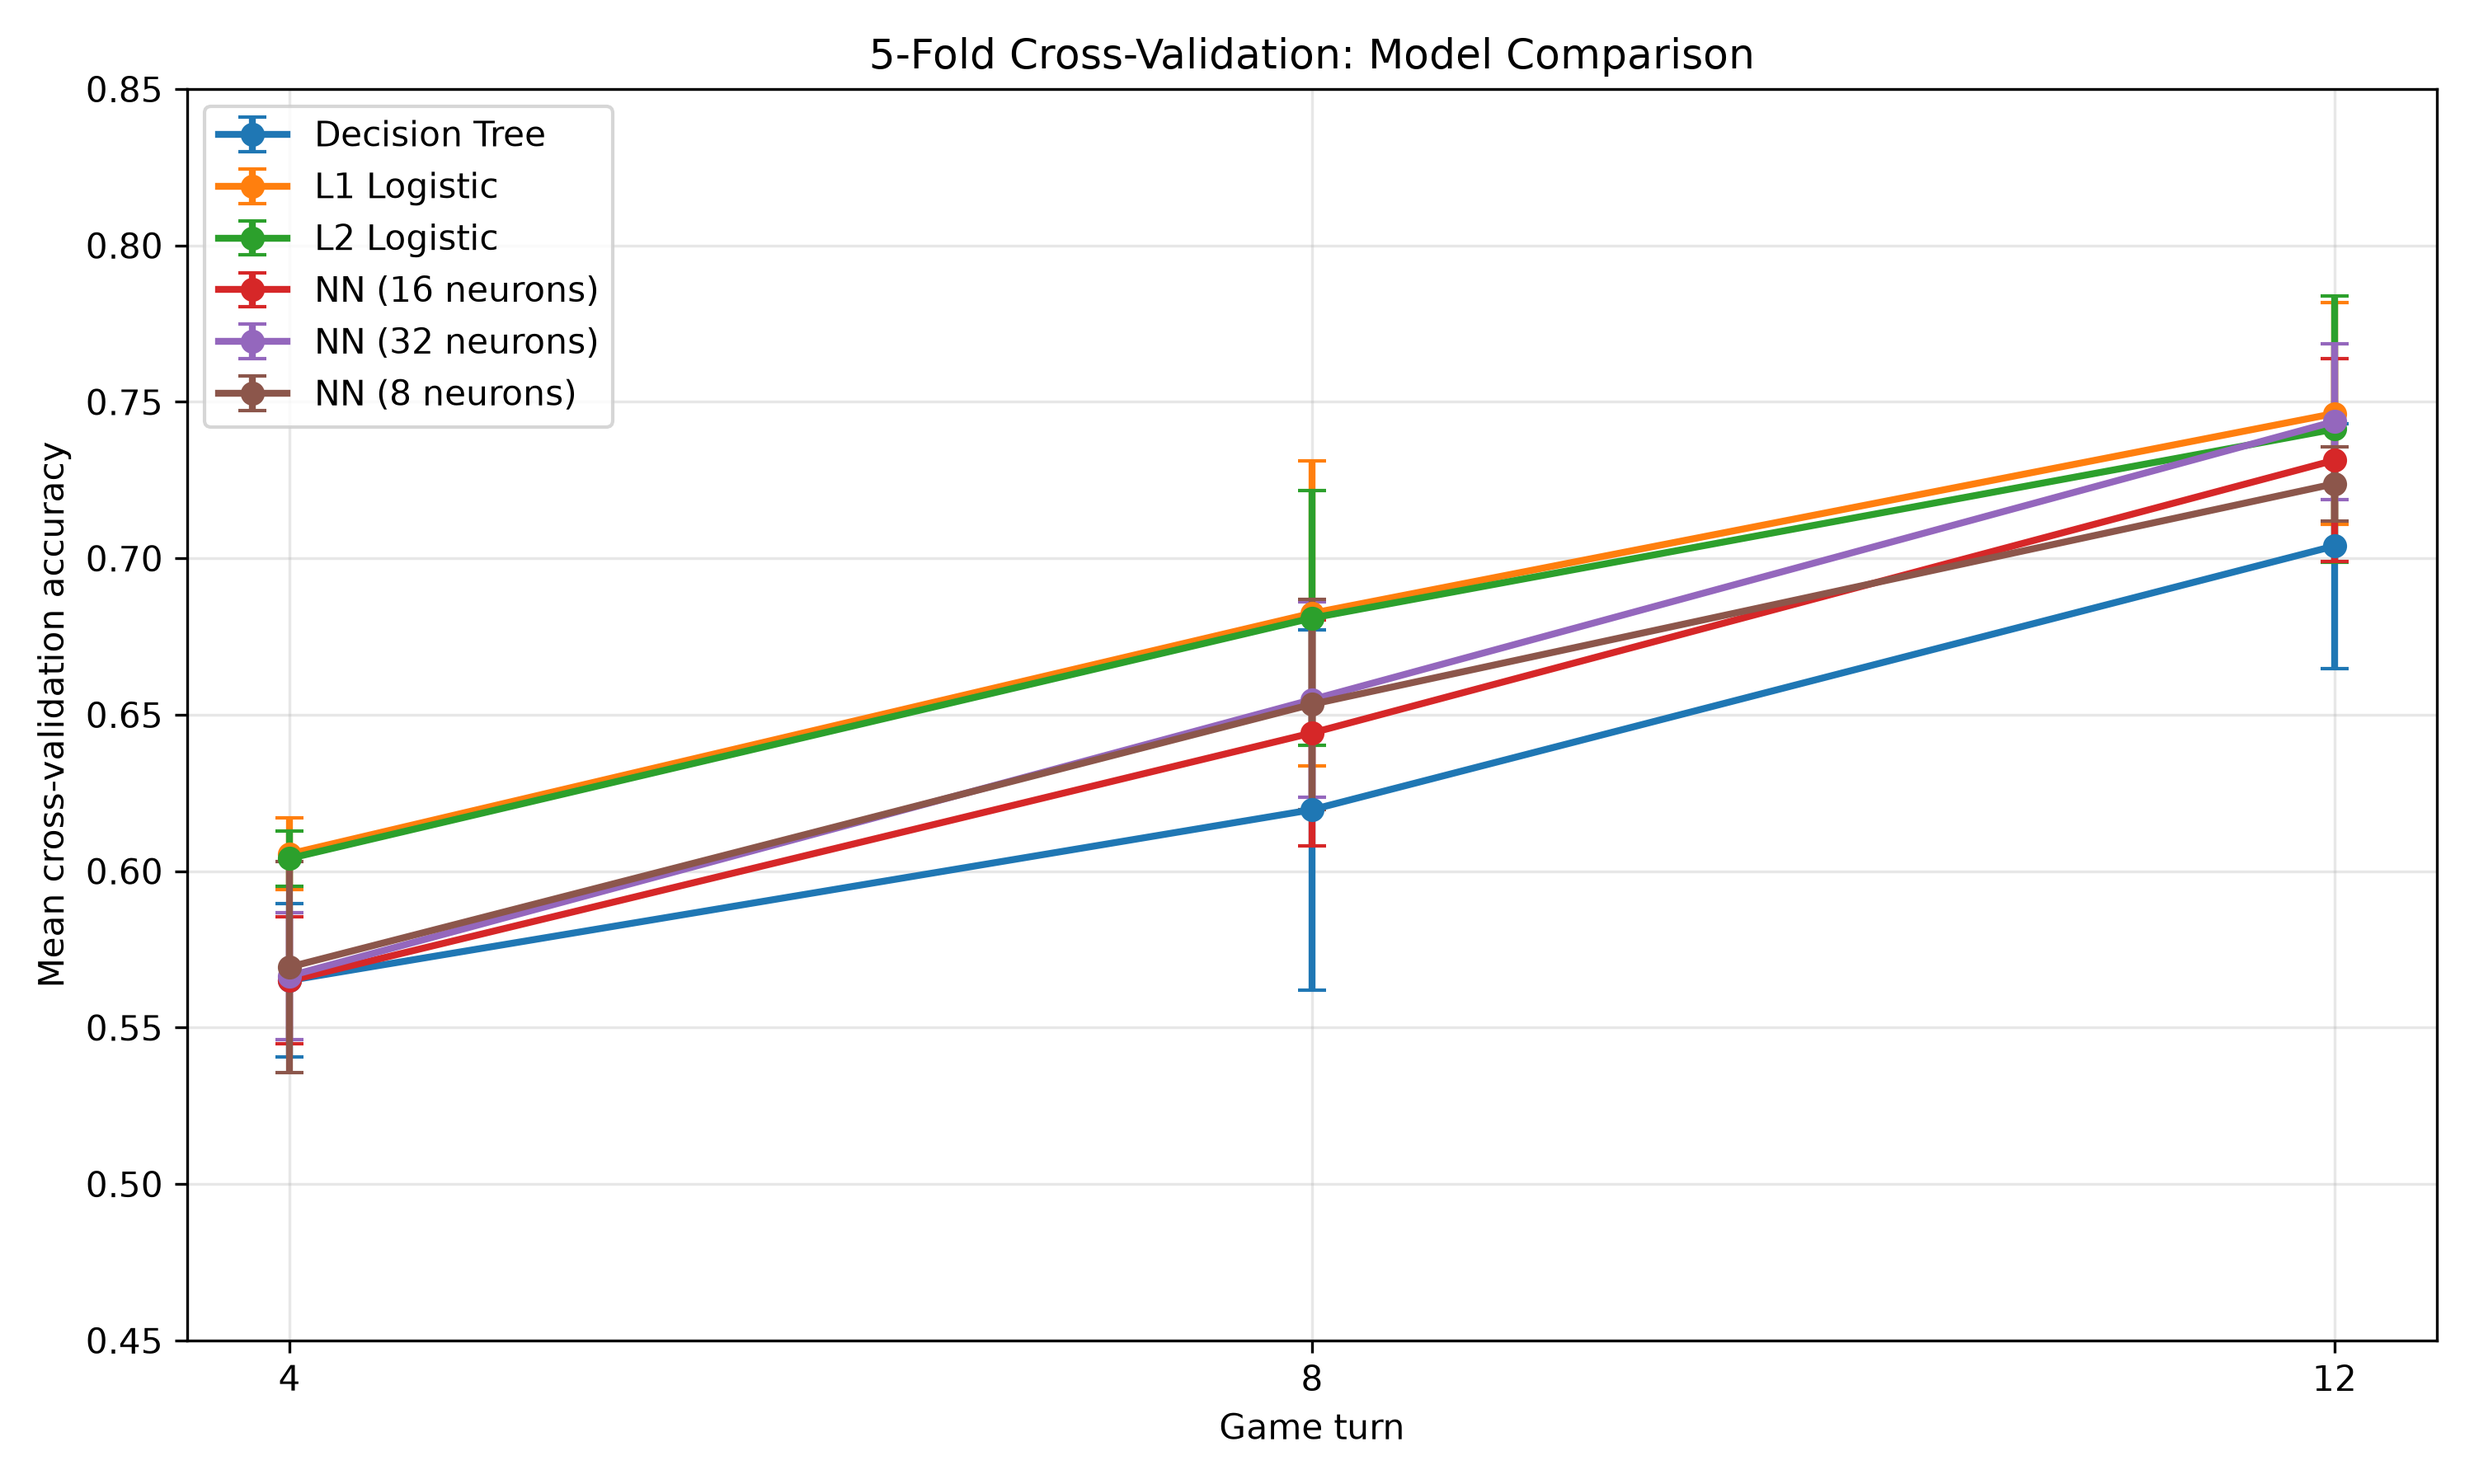
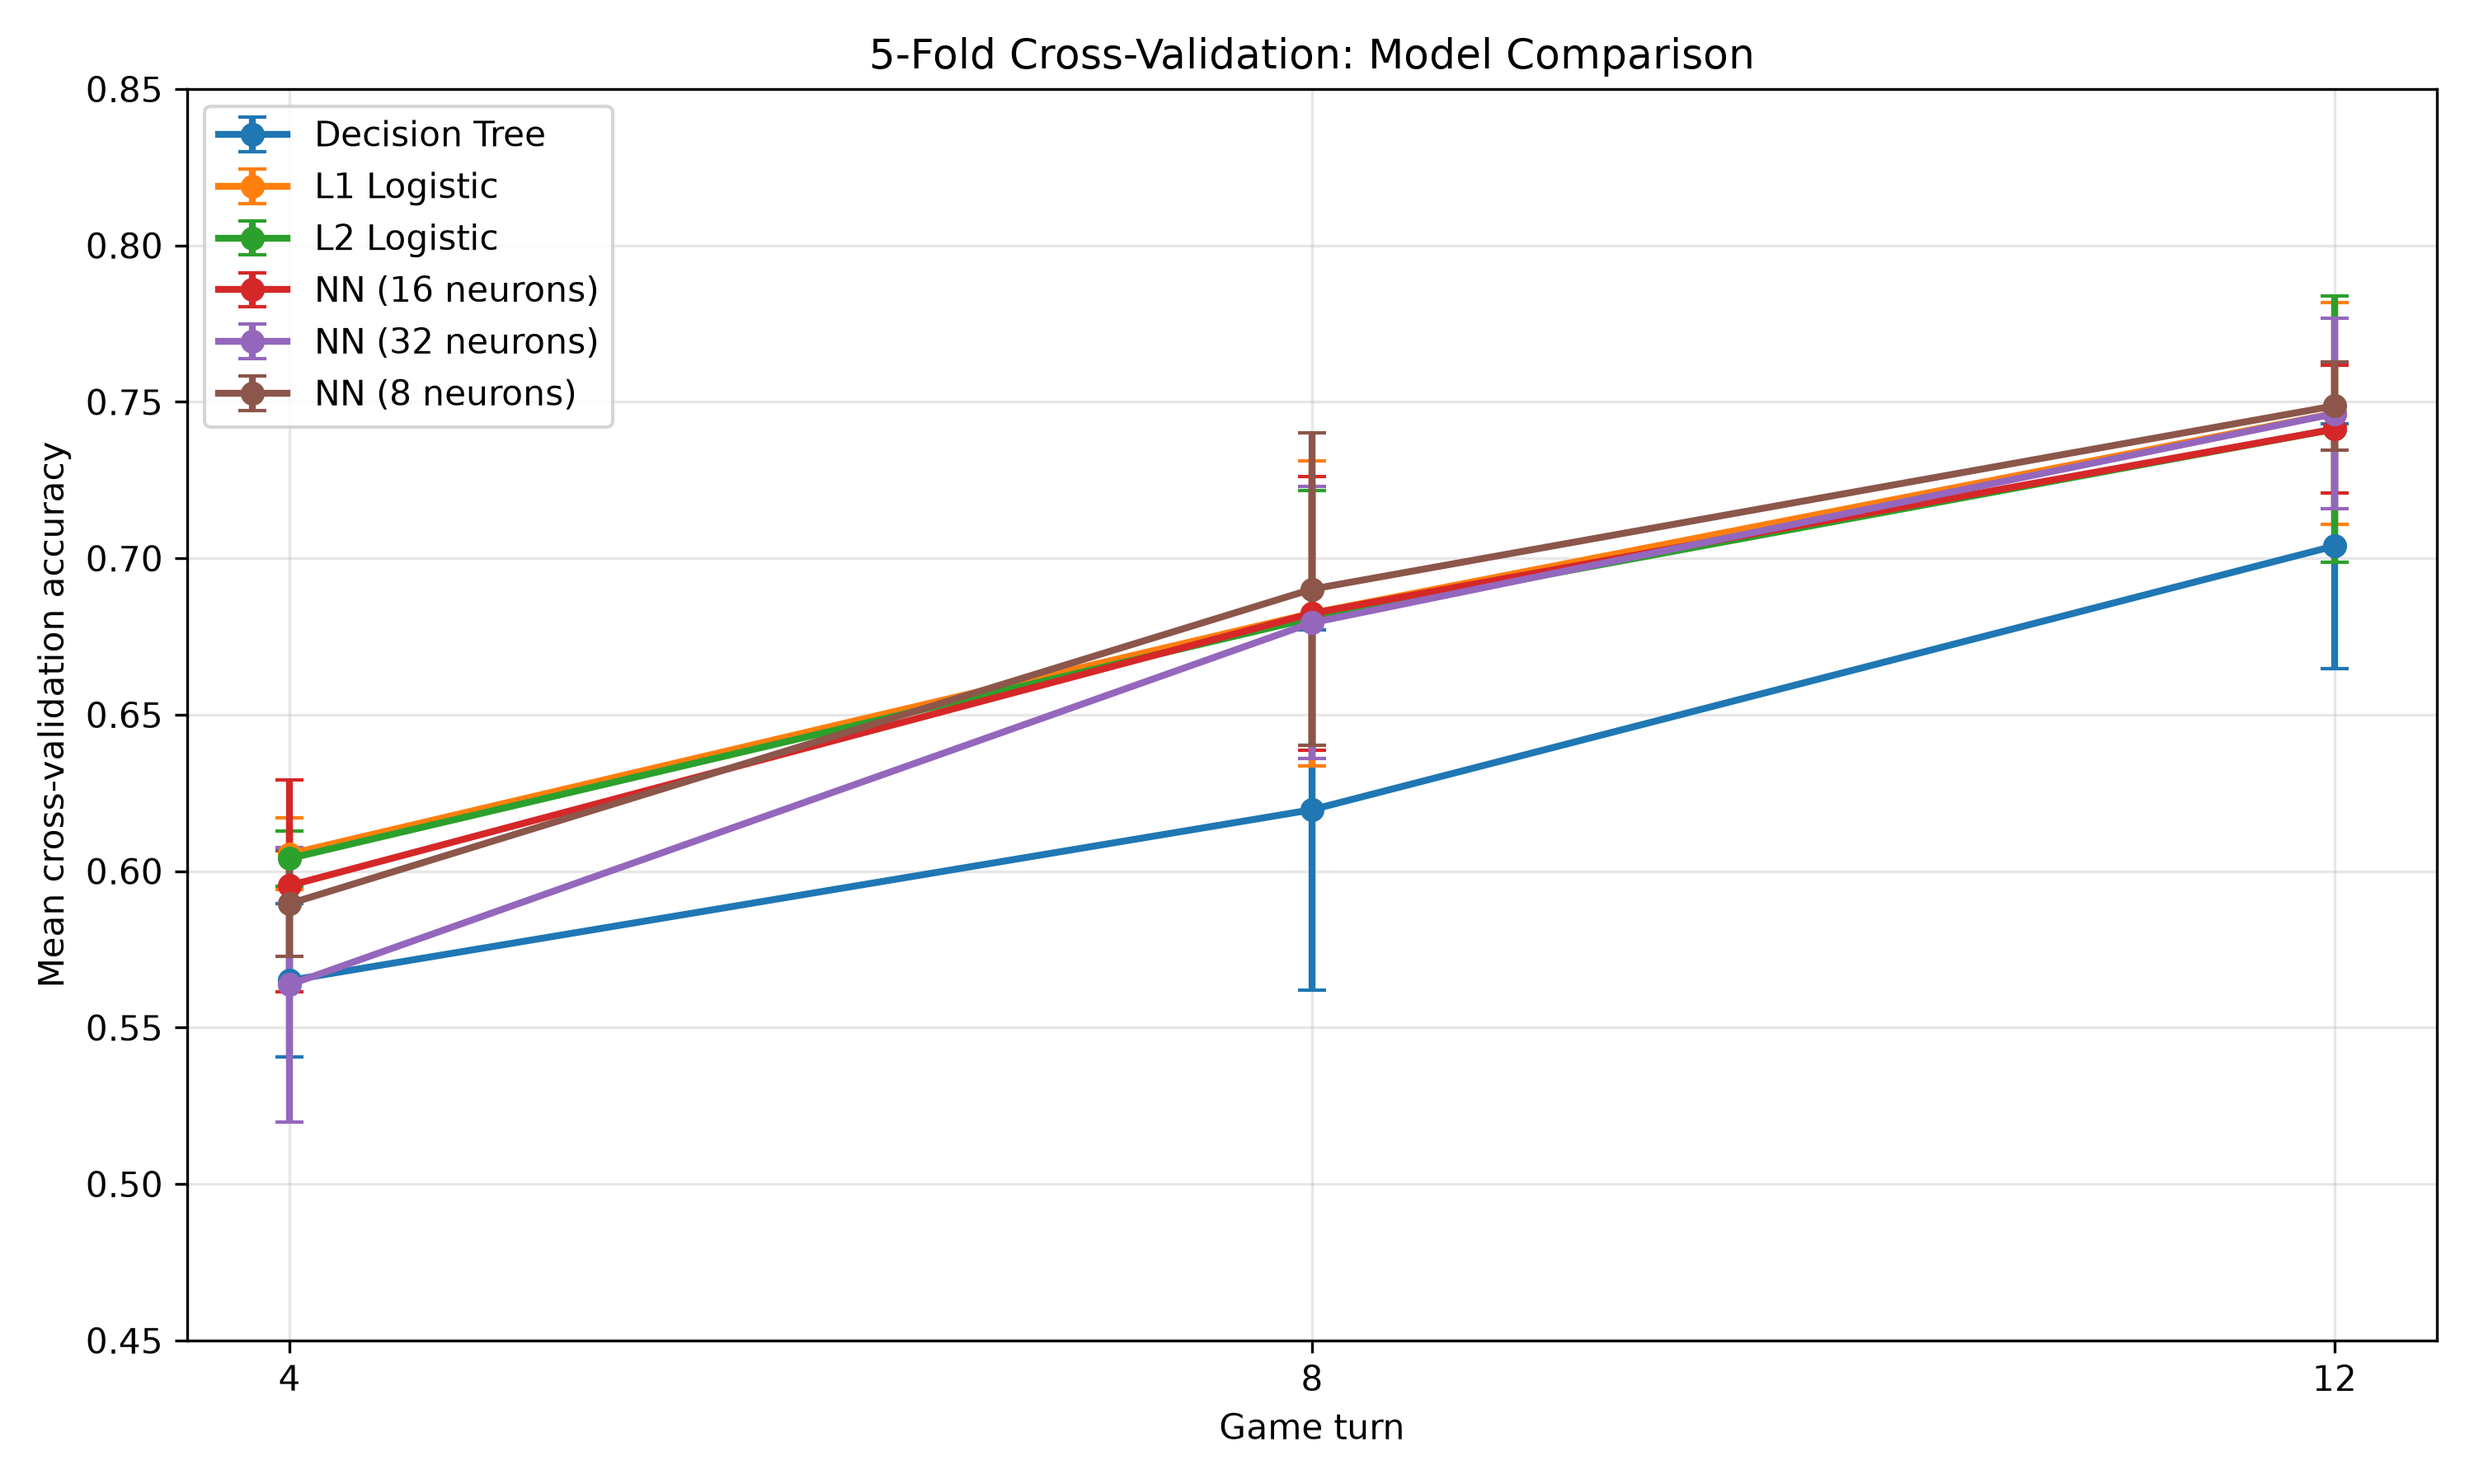
Migrate neural network from TensorFlow to PyTorch

Changed region(s): [[0.093, 0.2178, 0.961, 0.7467], [0.093, 0.5289, 0.124, 0.56]]

diff --git a/src/models.py b/src/models.py
@@ -6,10 +6,12 @@ What is in here:
   1. Prize-card baseline
   2. Logistic regression (L2 and L1 regularization)
   3. Decision tree classifier
-  4. Per-turn validation accuracy comparisons
-  5. Feature coefficient and importance analysis
-  6. Decision tree depth and L1 regularization experiments
-  7. Feature ablation experiments
+  4. PyTorch neural network with early stopping
+  5. Per-turn validation accuracy comparisons
+  6. Five-fold cross-validation
+  7. Feature coefficient and importance analysis
+  8. Decision tree depth and L1 regularization experiments
+  9. Feature ablation experiments
 
 Run from the repository root:
   python3 src/models.py
@@ -21,12 +23,15 @@ from pathlib import Path
 
 import numpy as np
 import pandas as pd
-import tensorflow as tf
+import torch
 from sklearn.linear_model import LogisticRegression
 from sklearn.model_selection import StratifiedKFold, train_test_split
 from sklearn.pipeline import make_pipeline
 from sklearn.preprocessing import StandardScaler
 from sklearn.tree import DecisionTreeClassifier
+from torch import nn
+from torch.utils.data import DataLoader, TensorDataset
+ 
 
 def prize_baseline(p1_prizes, p2_prizes):
      """
@@ -71,60 +76,128 @@ def train_tree(X_train, y_train, max_depth=3):
      
      return model
 
-
 def train_neural_network(X_train, y_train, hidden_units=16):
+     """
+     Train a PyTorch neural network with scaling and early stopping
+     """
+     torch.manual_seed(42)
+     
+     X_train = np.asarray(X_train)
+     y_train = np.asarray(y_train)
+     
+     # Separate data for training and early stopping
+     X_fit, X_stop, y_fit, y_stop = train_test_split(
+               X_train,
+               y_train,
+               test_size=0.2,
+               stratify=y_train,
+               random_state=42
+          )
+    
+     # Fit scaler only on the actual training examples
+     scaler = StandardScaler()
+     X_fit_scaled = scaler.fit_transform(X_fit)
+     X_stop_scaled = scaler.transform(X_stop)
+     
+     # Convert data to PyTorch tensors
+     fit_x = torch.tensor(X_fit_scaled, dtype=torch.float32)
+     fit_y = torch.tensor(y_fit, dtype=torch.float32).reshape(-1, 1)
+
+     stop_x = torch.tensor(X_stop_scaled, dtype=torch.float32)
+     stop_y = torch.tensor(y_stop, dtype=torch.float32).reshape(-1, 1)
+
+     # Create mini-batches
+     dataset = TensorDataset(fit_x, fit_y)
+     loader = DataLoader(
+          dataset,
+          batch_size=32,
+          shuffle=True
+     )
+     
+     # Neural network: 17 inputs -> hidden layer -> 1 output
+     model = nn.Sequential(
+          nn.Linear(X_train.shape[1], hidden_units),
+          nn.ReLU(),
+          nn.Linear(hidden_units, 1)
+     )
+     
+     # Loss function and optimizer
+     criterion = nn.BCEWithLogitsLoss()
+     optimizer = torch.optim.Adam(
+          model.parameters(),
+          lr=0.001
+     )
+     
+     # Early stopping variables
+     best_loss = float("inf")
+     best_weights = None
+     epochs_without_improvement = 0
+     
+     # Training loop
+     for epoch in range(100):
+          model.train()
+          
+          for batch_x, batch_y in loader:
+               # Clear previous gradients
+               optimizer.zero_grad()
+               
+               # Forward propagation
+               logits = model(batch_x)
+               loss = criterion(logits, batch_y)
+               
+               # Backpropagation
+               loss.backward()
+               
+               # Update weights 
+               optimizer.step()
+               
+          # Calculate loss on the early-stopping set
+          model.eval()
+          
+          with torch.no_grad():
+               stop_logits = model(stop_x)
+               stop_loss = criterion(stop_logits, stop_y).item()
+               
+          # Save the best model weights
+          if stop_loss < best_loss:
+               best_loss = stop_loss
+               best_weights = {
+                    key: value.clone()
+                    for key, value in model.state_dict().items()
+               }
+               epochs_without_improvement = 0
+          else:
+               epochs_without_improvement += 1
+               
+               # Stop after 10 epochs without improvement
+               if epochs_without_improvement >= 10:
+                    break
+               
+     # Restore weights from best epoch
+     model.load_state_dict(best_weights)
+     model.eval()
+          
+     return model, scaler
+
+def predict_neural_network(model, scaler, X):
     """
-    Train a neural network with scaling and early stopping.
+    Predict the winner using a trained PyTorch neural network.
     """
-    tf.keras.utils.set_random_seed(42)
+    # Apply the training scaler
+    X_scaled = scaler.transform(np.asarray(X))
 
-    X_train = np.asarray(X_train)
-    y_train = np.asarray(y_train)
+    # Convert features to a PyTorch tensor
+    X_tensor = torch.tensor(X_scaled, dtype=torch.float32)
 
-    # Separate data for training and early stopping
-    X_fit, X_stop, y_fit, y_stop = train_test_split(
-        X_train,
-        y_train,
-        test_size=0.2,
-        stratify=y_train,
-        random_state=42
-    )
+    model.eval()
 
-    # Fit scaler only on actual training examples
-    scaler = StandardScaler()
-    X_fit_scaled = scaler.fit_transform(X_fit)
-    X_stop_scaled = scaler.transform(X_stop)
+    # Make predictions without calculating gradients
+    with torch.no_grad():
+        logits = model(X_tensor)
+        probabilities = torch.sigmoid(logits).numpy().ravel()
 
-    model = tf.keras.Sequential([
-        tf.keras.layers.Input(shape=(X_train.shape[1],)),
-        tf.keras.layers.Dense(hidden_units, activation="relu"),
-        tf.keras.layers.Dense(1, activation="sigmoid")
-    ])
-
-    model.compile(
-        optimizer="adam",
-        loss="binary_crossentropy",
-        metrics=["accuracy"]
-    )
-
-    model.fit(
-        X_fit_scaled,
-        y_fit,
-        validation_data=(X_stop_scaled, y_stop),
-        epochs=100,
-        batch_size=32,
-        callbacks=[
-            tf.keras.callbacks.EarlyStopping(
-                monitor="val_loss",
-                patience=10,
-                restore_best_weights=True
-            )
-        ],
-        verbose=0
-    )
-
-    return model, scaler
-
+    # Convert probabilities to binary predictions
+    return (probabilities >= 0.5).astype(int)
 
 def cross_validate_models(train, full_features, turn):
      """
@@ -206,11 +279,13 @@ def cross_validate_models(train, full_features, turn):
                y_fold_train,
                hidden_units=hidden_units
           )
-
-               X_nn_val = nn_scaler.transform(X_fold_val)
-
-               probabilities = nn_model.predict(X_nn_val, verbose=0)
-               predictions = (probabilities.ravel() >= 0.5).astype(int)
+               
+               predictions = predict_neural_network(
+                    nn_model,
+                    nn_scaler,
+                    X_fold_val
+               )
+               
                nn_accuracy = np.mean(predictions == y_fold_val)
 
                results.append({
@@ -304,12 +379,11 @@ def main():
           # Train neural network (scaling handled inside function)
           nn_model, nn_scaler = train_neural_network(train[full_features],y_train)
 
-          # Scale validation features using the training scaler
-          X_val_scaled = nn_scaler.transform(val[full_features].to_numpy())
-          
-          # Predict winner
-          nn_probabilities = nn_model.predict(X_val_scaled, verbose=0)
-          nn_predictions = (nn_probabilities.ravel() >= 0.5).astype(int)
+          nn_predictions = predict_neural_network(
+               nn_model, 
+               nn_scaler,
+               val[full_features]
+          )
  
           # Store logistic regression coefficients
           if turn in selected_turns:
